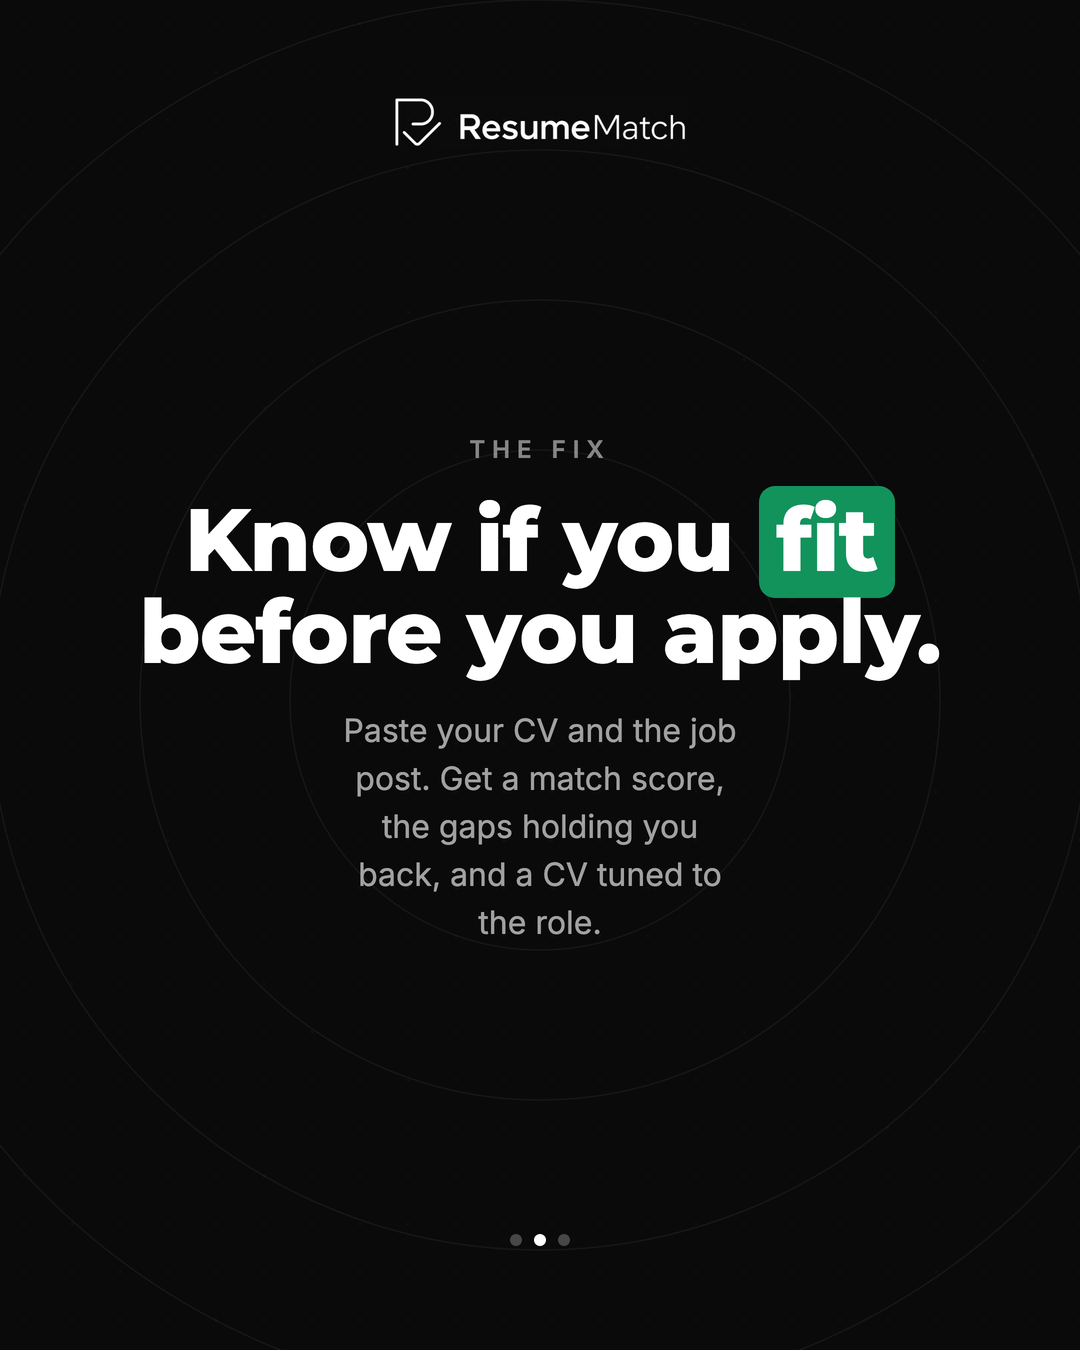
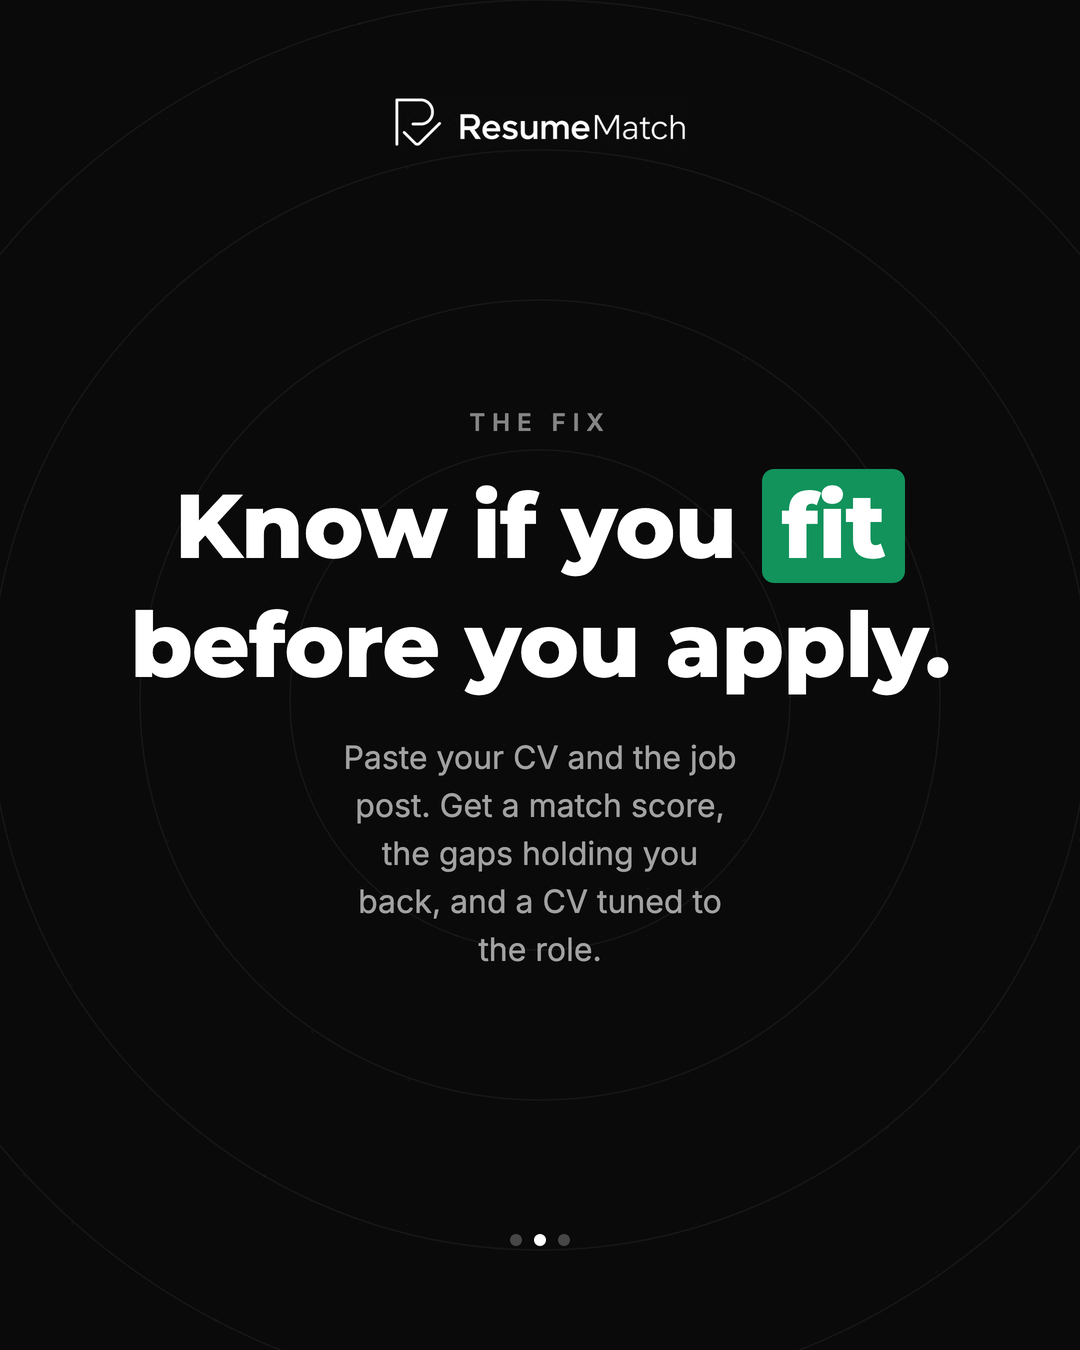
fix(social): polish the carousel — chip spacing, punctuation, type scale
Design fixes on the Instagram images themselves:
- Highlight chips no longer collide with the line above (line-height 1.32,
  smaller chip padding).
- Trailing punctuation moved outside the chips ("nothing". not "nothing.").
- One shared 90px headline scale across all three slides instead of
  104/88/96, so the set reads as a system.

Changed region(s): [[0.1222, 0.3111, 0.8861, 0.7156]]

diff --git a/backend/coming_soon.py b/backend/coming_soon.py
@@ -64,12 +64,15 @@ CSS = f"""
   .eyebrow {{ font-size: 24px; font-weight: 600; letter-spacing: 7px;
               text-transform: uppercase; color: rgba(255,255,255,.5); }}
 
+  /* generous leading so a highlighted line never collides with the one above */
   h1 {{ font-family: Montserrat, sans-serif; font-weight: 800; letter-spacing: -.02em;
-        line-height: 1.04; }}
+        line-height: 1.32; }}
 
-  /* the "different background for that moment": an inverted highlight chip */
-  .hl {{ background: #fff; color: #0A0A0A; border-radius: 16px;
-         padding: 0 .2em 0.06em; box-decoration-break: clone;
+  /* the "different background for that moment": an inverted highlight chip.
+     Modest vertical padding + the roomy line-height keeps it from swallowing
+     the line; trailing punctuation stays OUTSIDE the chip. */
+  .hl {{ background: #fff; color: #0A0A0A; border-radius: 12px;
+         padding: 0.02em 0.22em; box-decoration-break: clone;
          -webkit-box-decoration-break: clone; }}
   .hl.met {{ background: #12935C; color: #fff; }}
 
@@ -105,24 +108,28 @@ def _page(index: int, eyebrow: str, headline_html: str, lede: str, extra: str = 
 </body></html>"""
 
 
+# One shared headline size across the set (a real type scale), and trailing
+# punctuation sits outside the highlight chip.
+HEAD = "font-size:90px"
+
 SLIDE_1 = _page(
     1,
     "The problem",
-    '<span style="font-size:104px">You apply.<br>Then <span class="hl">nothing.</span></span>',
+    f'<span style="{HEAD}">You apply.<br>Then <span class="hl">nothing</span>.</span>',
     "You never find out if you were close, or nowhere near.",
 )
 
 SLIDE_2 = _page(
     2,
     "The fix",
-    '<span style="font-size:88px">Know if you <span class="hl met">fit</span><br>before you apply.</span>',
+    f'<span style="{HEAD}">Know if you <span class="hl met">fit</span><br>before you apply.</span>',
     "Paste your CV and the job post. Get a match score, the gaps holding you back, and a CV tuned to the role.",
 )
 
 SLIDE_3 = _page(
     3,
     "Coming soon",
-    '<span style="font-size:96px">Stop guessing.<br>Start <span class="hl">matching.</span></span>',
+    f'<span style="{HEAD}">Stop guessing.<br>Start <span class="hl">matching</span>.</span>',
     "ResumeMatch is almost here.",
     # No waitlist exists yet, so the CTA is a follow — something we can actually
     # deliver on. Swap for "Try it free" pointing at the live site once launched.
